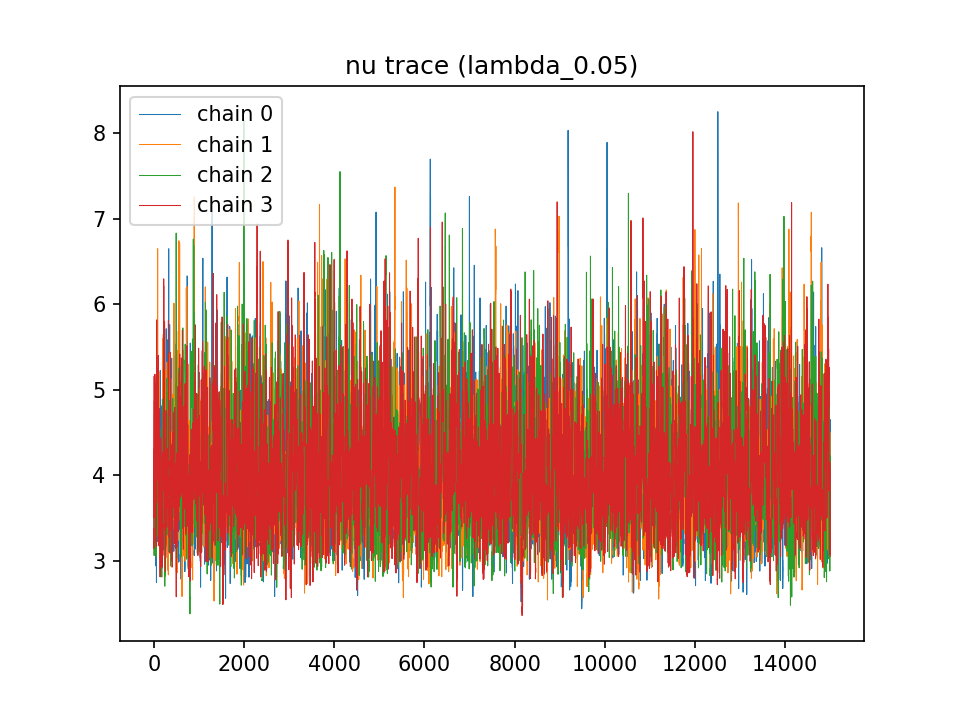
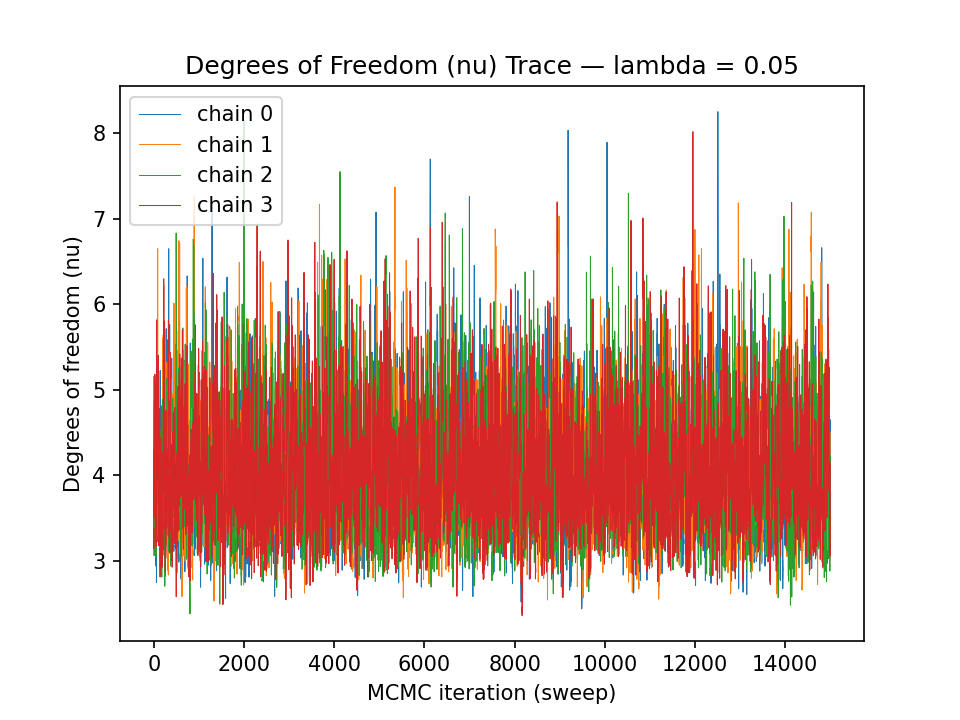
style: label trace plot axes and title with degrees-of-freedom/lambda wording

diff --git a/src/diagnostics.py b/src/diagnostics.py
@@ -81,20 +81,25 @@ def effective_sample_size(chain: np.ndarray) -> float:
     return float(ess)
 
 
-def trace_plot(chains: list[np.ndarray], param_name: str, out_path: Path) -> None:
+def trace_plot(chains: list[np.ndarray], param_name: str, out_path: Path,
+                title: str | None = None) -> None:
     """
     Plot one line per chain over iteration index and save to out_path.
 
     Parameters:
     - chains: list of 1-D arrays, one per chain
-    - param_name: used as the plot title
+    - param_name: the sampled quantity being traced; used as the y-axis
+      label and, if `title` is not given, as the plot title
     - out_path: file path to save the figure to
+    - title: optional plot title; defaults to f"Trace plot: {param_name}"
     """
     plt.figure()
     for i, chain in enumerate(chains):
         plt.plot(chain, linewidth=0.5, label=f"chain {i}")
+    plt.xlabel("MCMC iteration (sweep)")
+    plt.ylabel(param_name)
     plt.legend()
-    plt.title(param_name)
+    plt.title(title if title is not None else f"Trace plot: {param_name}")
     plt.savefig(out_path, dpi=150)
     plt.close()
 

diff --git a/src/run_mcmc.py b/src/run_mcmc.py
@@ -171,8 +171,11 @@ if __name__ == "__main__":
         for i, result in enumerate(results, start=1):
             print(f"  chain {i} accept_rate = {result['accept_rate']}")
 
-        trace_plot(param_chains["nu"], f"nu trace ({label})",
-                   FIGURES_DIR / f"trace_nu_{label}.png")
+        trace_plot(
+            param_chains["nu"], "Degrees of freedom (nu)",
+            FIGURES_DIR / f"trace_nu_{label}.png",
+            title=f"Degrees of Freedom (nu) Trace — lambda = {nu_rate}",
+        )
 
         nu_pooled_draws[label] = np.concatenate(param_chains["nu"])
 
